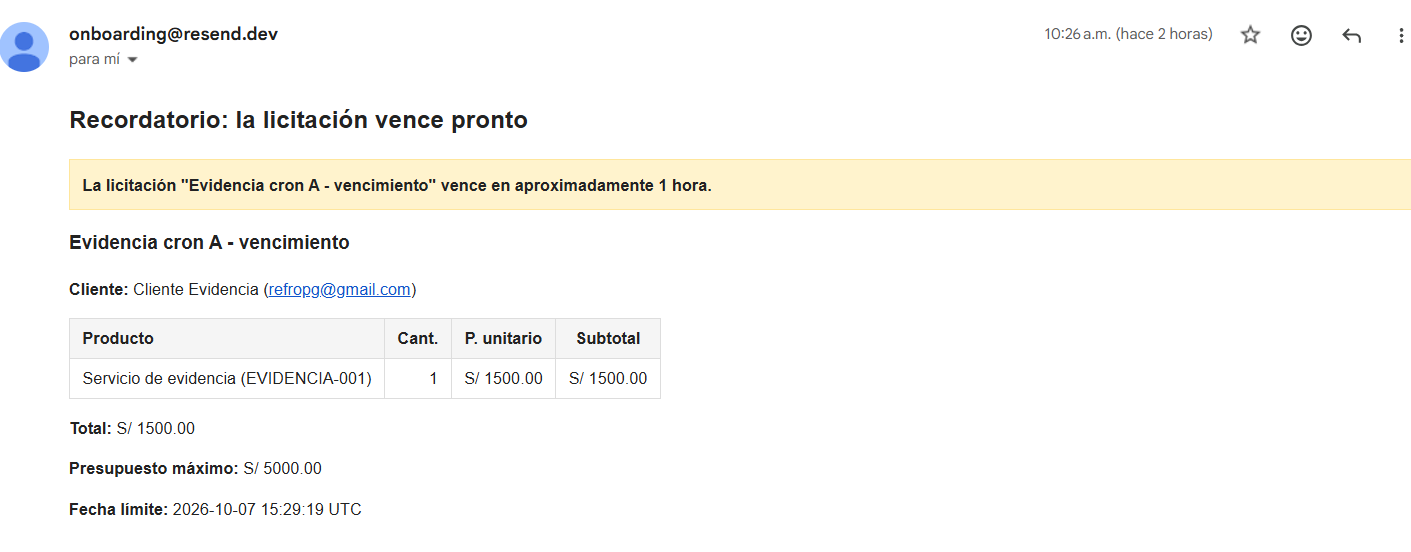
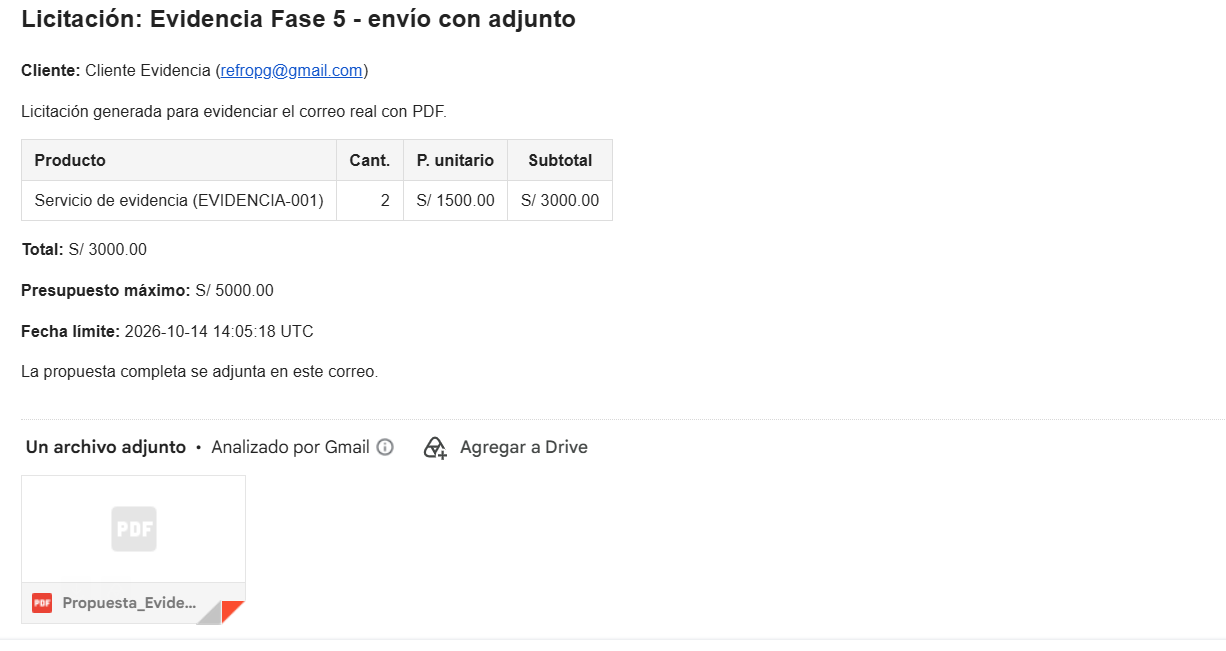
5 Evidencias de correo

diff --git a/README.md b/README.md
@@ -423,7 +423,7 @@ Corren contra la **BD de desarrollo** con usuarios de test (`test-admin@example.
 
 | Evidencia | Estado |
 |---|---|
-| Correo de envío con el PDF adjunto (inbox/Spam, fase 5) | ⏳ captura pendiente → `docs/evidencia-correo.png` |
+| Correo de envío con el PDF adjunto (inbox/Spam, fase 5) | ✅ `docs/evidencia-correo.png` |
 | Correo de recordatorio del cron (inbox/Spam, fase 7) | ⏳ captura pendiente → `docs/evidencia-cron-correo.png` |
 | `EmailLog` del envío real (providerId `01a116ae-eb87-786f-bdb9-e442a34f0cba`, estado `enviado`) | ✅ verificado en producción |
 | Documento accesible por URL pública (HTTP 200, `application/pdf`) | ✅ [`Propuesta_Evidencia_Fase_5.pdf`](https://tcrjekibvnzjnbxdebto.supabase.co/storage/v1/object/public/proposals/tenders/ec4dda0d-e4d6-4883-bfbb-39fc0c813a41/1791381921609-Propuesta_Evidencia_Fase_5.pdf) |

diff --git a/docs/README.md b/docs/README.md
@@ -4,7 +4,7 @@ Archivos de evidencia del proyecto. Guardar cada uno en cuanto se genere (no esp
 
 | Archivo | Descripción | Estado |
 |---|---|---|
-| `evidencia-correo.png` | Captura del correo de envío (fase 5) con el PDF adjunto (inbox o Spam) | ⏳ pendiente |
+| `evidencia-correo.png` | Captura del correo de envío (fase 5) con el PDF adjunto (inbox o Spam) | ✅ |
 | `evidencia-cron-correo.png` | Captura de los correos de recordatorio del cron (fase 7, inbox o Spam) | ⏳ pendiente |
 | `evidencia-e2e.png` | Prueba E2E completa en producción | ⏳ fase 10 |
 
